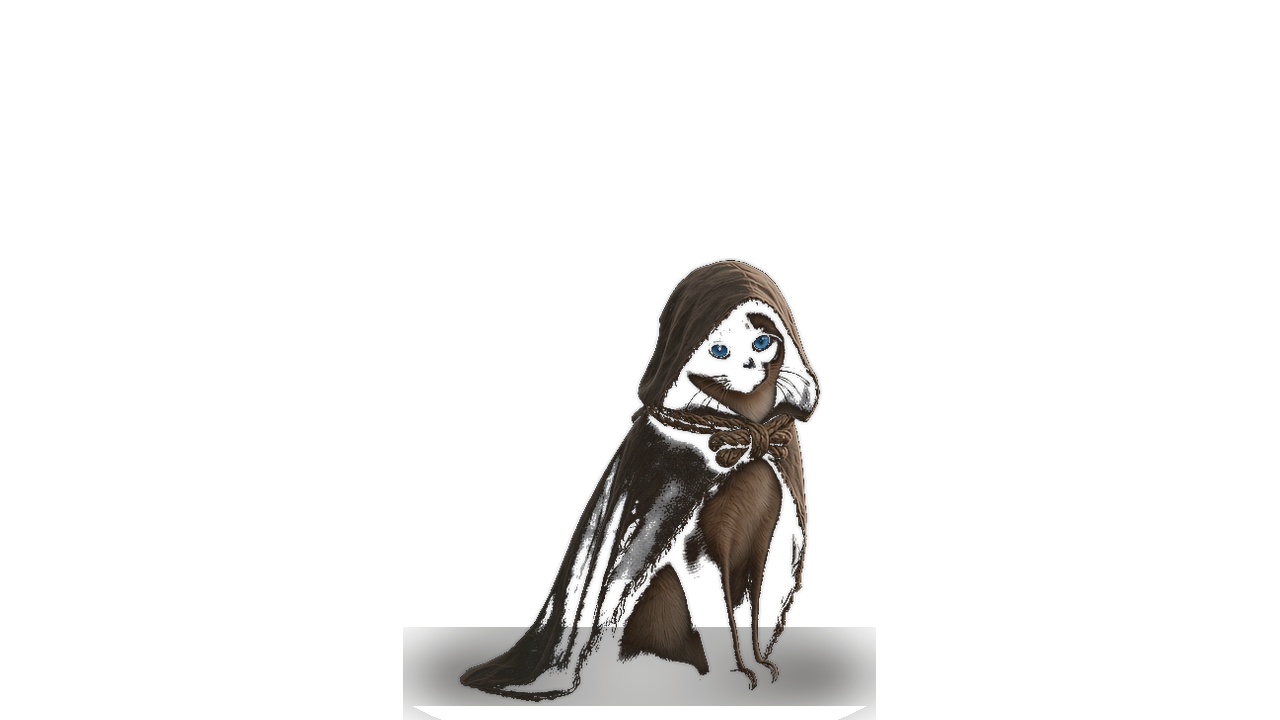
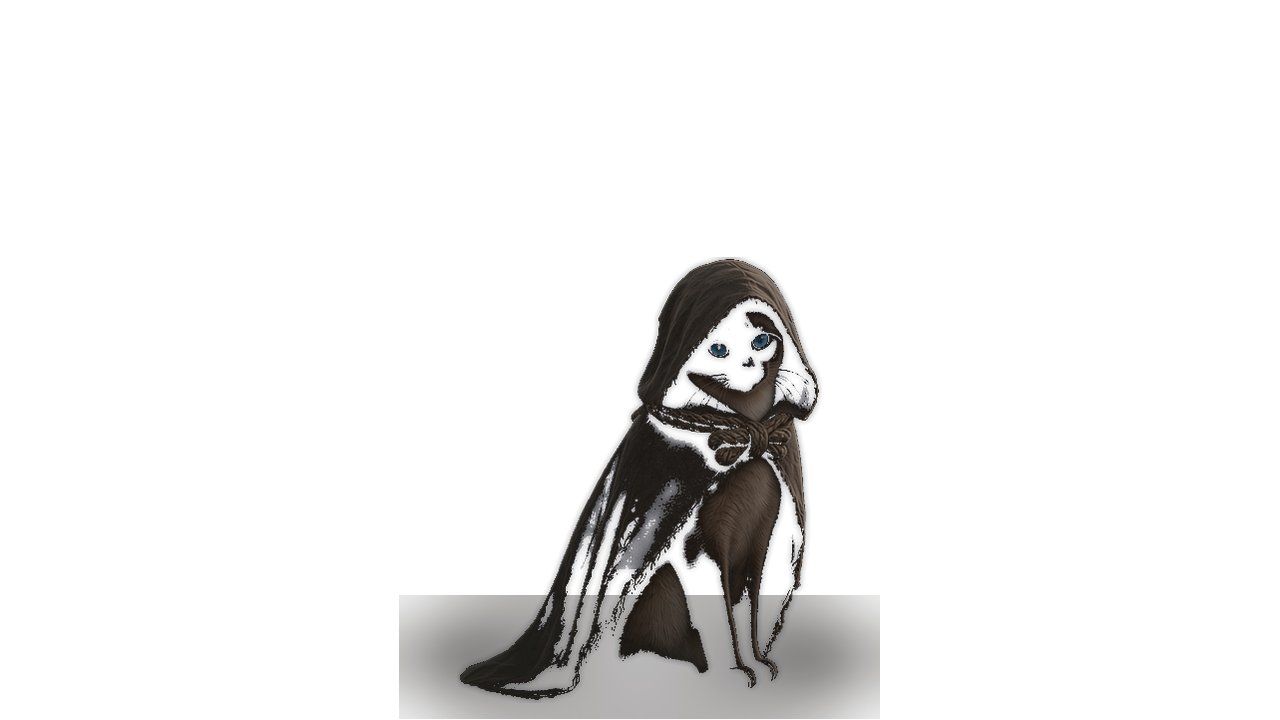
大猫和粮袋落到前坪，并挂上 sticker 辅包
粮袋、火盆和木牌的脚收到地面带，前坪可走带不再含檐上匾。东门洞按门板居中，不再当地面道具。雾仍用图内已烘的，不另乘一层。

Changed region(s): [[0.3125, 0.3361, 0.6875, 1.0]]

diff --git a/src/core/stage.ts b/src/core/stage.ts
@@ -19,8 +19,8 @@ export type Gate = {
 const shoreBand: Band = { minX: 0.05, maxX: 0.96, minY: 0.4, maxY: 0.84 };
 /** Deck only. The shed roof occupies about y 0.28–0.62 of the plate. */
 const campBand: Band = { minX: 0.05, maxX: 0.96, minY: 0.68, maxY: 0.88 };
-/** Stone court under the eaves. The ridge sits above y 0.70. */
-const yardBand: Band = { minX: 0.05, maxX: 0.96, minY: 0.72, maxY: 0.88 };
+/** Forecourt and lower steps. The balcony plaques sit above y 0.76. */
+const yardBand: Band = { minX: 0.05, maxX: 0.96, minY: 0.76, maxY: 0.94 };
 const pathBand: Band = { minX: 0.05, maxX: 0.96, minY: 0.4, maxY: 0.84 };
 const nightBand: Band = { minX: 0.05, maxX: 0.96, minY: 0.64, maxY: 0.84 };
 
@@ -65,19 +65,19 @@ export const SPOTS: Record<IslandScene, readonly Spot[]> = {
   ],
   'dba.scene.camp': [
     { id: 'camp-sleep', x: 0.42, y: 0.745, r: 0.042 },
-    { id: 'act:dba.word.home', x: 0.3, y: 0.83, r: 0.036 },
-    { id: 'act:dba.word.eat', x: 0.39, y: 0.83, r: 0.036 },
-    { id: 'act:dba.word.drink', x: 0.48, y: 0.83, r: 0.036 },
-    { id: 'act:dba.word.walk', x: 0.57, y: 0.83, r: 0.036 },
-    { id: 'act:dba.word.take', x: 0.66, y: 0.83, r: 0.036 },
-    { id: 'act:dba.word.me', x: 0.75, y: 0.83, r: 0.036 },
-    { id: 'act:dba.word.you', x: 0.84, y: 0.83, r: 0.036 },
+    { id: 'act:dba.word.home', x: 0.3, y: 0.85, r: 0.034 },
+    { id: 'act:dba.word.eat', x: 0.39, y: 0.85, r: 0.034 },
+    { id: 'act:dba.word.drink', x: 0.48, y: 0.85, r: 0.034 },
+    { id: 'act:dba.word.walk', x: 0.57, y: 0.85, r: 0.034 },
+    { id: 'act:dba.word.take', x: 0.66, y: 0.85, r: 0.034 },
+    { id: 'act:dba.word.me', x: 0.75, y: 0.85, r: 0.034 },
+    { id: 'act:dba.word.you', x: 0.84, y: 0.85, r: 0.034 },
   ],
   'dba.scene.yard': [
-    { id: 'yard-give', x: 0.7, y: 0.8, r: 0.05 },
-    { id: 'yard-grab', x: 0.28, y: 0.84, r: 0.048 },
-    { id: 'act:dba.word.amount:more', x: 0.48, y: 0.78, r: 0.038 },
-    { id: 'act:dba.word.amount:less', x: 0.58, y: 0.78, r: 0.038 },
+    { id: 'yard-give', x: 0.8, y: 0.9, r: 0.042 },
+    { id: 'yard-grab', x: 0.24, y: 0.9, r: 0.04 },
+    { id: 'act:dba.word.amount:more', x: 0.48, y: 0.88, r: 0.036 },
+    { id: 'act:dba.word.amount:less', x: 0.58, y: 0.88, r: 0.036 },
     { id: 'act:dba.word.size:a', x: 0.16, y: 0.78, r: 0.036 },
     { id: 'act:dba.word.size:b', x: 0.36, y: 0.76, r: 0.034 },
   ],

diff --git a/src/ui/Plate.tsx b/src/ui/Plate.tsx
@@ -19,8 +19,14 @@ function isCurtain(slot: SceneSlot): boolean {
   return slot.kind === 'curtain' || slot.kind === 'north-curtain';
 }
 
+/** East doorway plate. Not a footed prop, so it must not plant on the sand. */
+function isPortal(slot: SceneSlot): boolean {
+  return slot.kind === 'light-slit';
+}
+
 /** Closer than the traveler's feet: paint after the figure. Curtain hem is the cloth's foot. */
 export function drawsInFront(slot: SceneSlot, feetY: number): boolean {
+  if (isPortal(slot)) return false;
   if (slot.slot !== 'props' && !isCurtain(slot)) return false;
   return slot.y !== undefined && slot.y > feetY;
 }
@@ -217,7 +223,7 @@ function SlotPiece({
   const testId = slot.slot === 'props' ? `prop-${slot.id}` : `slot-${slot.slot}`;
   const src = resolveSlotAsset(slot.asset);
   const interactable = Boolean(slot.spot);
-  const footed = slot.slot === 'props' || slot.slot === 'building';
+  const footed = (slot.slot === 'props' || slot.slot === 'building') && !isPortal(slot);
   return (
     <div
       className={lit ? `scene-slot ${placed ? 'placed' : 'full'} lit` : `scene-slot ${placed ? 'placed' : 'full'}`}
@@ -229,7 +235,7 @@ function SlotPiece({
       data-interactable={interactable ? 'yes' : 'no'}
       data-cue={interactable ? (lit ? 'near' : 'far') : undefined}
       data-placeholder={src ? 'art' : 'block'}
-      data-anchor={footed ? 'foot' : undefined}
+      data-anchor={footed ? 'foot' : isPortal(slot) ? 'portal' : undefined}
       data-coplanar={scenic ? 'yes' : undefined}
       data-shadow={slot.slot === 'props' ? (hasPngContact(slot.asset ?? slot.id) ? 'png' : 'none') : undefined}
       data-testid={testId}
@@ -292,7 +298,7 @@ function slotStyle(slot: SceneSlot, cam: Point): CSSProperties {
     return { transform: shift, inset: bleed === 0 ? '0px' : `${-bleed * 100}%` };
   }
   const foot = slot.slot === 'building' ? buildingFoot({ x: slot.x, y: slot.y, h: slot.h }) : { x: slot.x, y: slot.y };
-  const pivot = slot.slot === 'props' || slot.slot === 'building' ? FOOT_PIVOT : { x: 0.5, y: 0.5 };
+  const pivot = isPortal(slot) ? { x: 0.5, y: 0.5 } : slot.slot === 'props' || slot.slot === 'building' ? FOOT_PIVOT : { x: 0.5, y: 0.5 };
   return {
     ...worldToScreen(foot, pivot, shift),
     width: `${(slot.w ?? 0.12) * 100}%`,

diff --git a/src/ui/cohesion.test.ts b/src/ui/cohesion.test.ts
@@ -8,8 +8,11 @@ describe('cohesion shadows and grades', () => {
       version: string;
       cohesion: { baked_contact_shadow_props: string[] };
       pr11_ground: { do_not_stack_hard_shadow_on_baked_props: boolean; fog_rule: string };
+      pr12_sticker: { eng_must_not: string; fog_match_baked: boolean };
     };
-    expect(contract.version).toBe('1.3-pr11-ground');
+    expect(contract.version).toBe('1.3-pr12-sticker');
+    expect(contract.pr12_sticker.fog_match_baked).toBe(true);
+    expect(contract.pr12_sticker.eng_must_not).toMatch(/uniform fog alpha/);
     expect(contract.pr11_ground.do_not_stack_hard_shadow_on_baked_props).toBe(true);
     expect(contract.pr11_ground.fog_rule).toMatch(/AFTER composite/);
     expect(contract.cohesion.baked_contact_shadow_props).toContain('shore/art.shore.prop.driftwood.png');

diff --git a/src/ui/hotspotAcceptance.test.tsx b/src/ui/hotspotAcceptance.test.tsx
@@ -101,6 +101,10 @@ describe('hotspot acceptance', () => {
     const gap = screen.getByTestId('prop-art.shore.prop.east-gap');
     expect(gap.getAttribute('data-slot')).toBe('props');
     expect(gap.getAttribute('data-spot')).toBe('shore-depart');
+    expect(gap.getAttribute('data-anchor')).toBe('portal');
+    expect(gap.style.transform).toContain('translate(-50%, -50%)');
+    expect(prop('art.camp.prop.fire', 'dba.scene.camp')?.y).toBeGreaterThanOrEqual(0.8);
+    expect(prop('art.yard.prop.grain-bags', 'dba.scene.yard')?.y).toBeGreaterThanOrEqual(0.88);
     expect(gap.getAttribute('data-placeholder')).toBe('art');
     expect(gap.querySelector('img')).toBeTruthy();
     expect(container.textContent).not.toContain('?');

diff --git a/src/core/walk.test.ts b/src/core/walk.test.ts
@@ -121,7 +121,9 @@ describe('walk', () => {
 describe('shore and camp layout', () => {
   it('keeps spawns, spots, and gates inside the walkable band', () => {
     expect(BANDS['dba.scene.camp'].minY).toBeGreaterThanOrEqual(0.66);
-    expect(BANDS['dba.scene.yard'].minY).toBeGreaterThanOrEqual(0.7);
+    expect(BANDS['dba.scene.yard'].minY).toBeGreaterThanOrEqual(0.76);
+    const give = SPOTS['dba.scene.yard'].find((spot) => spot.id === 'yard-give');
+    expect(give && give.y).toBeGreaterThanOrEqual(0.88);
     for (const scene of ISLAND_SCENES) {
       const band = BANDS[scene];
       const spawn = SPAWNS[scene];
